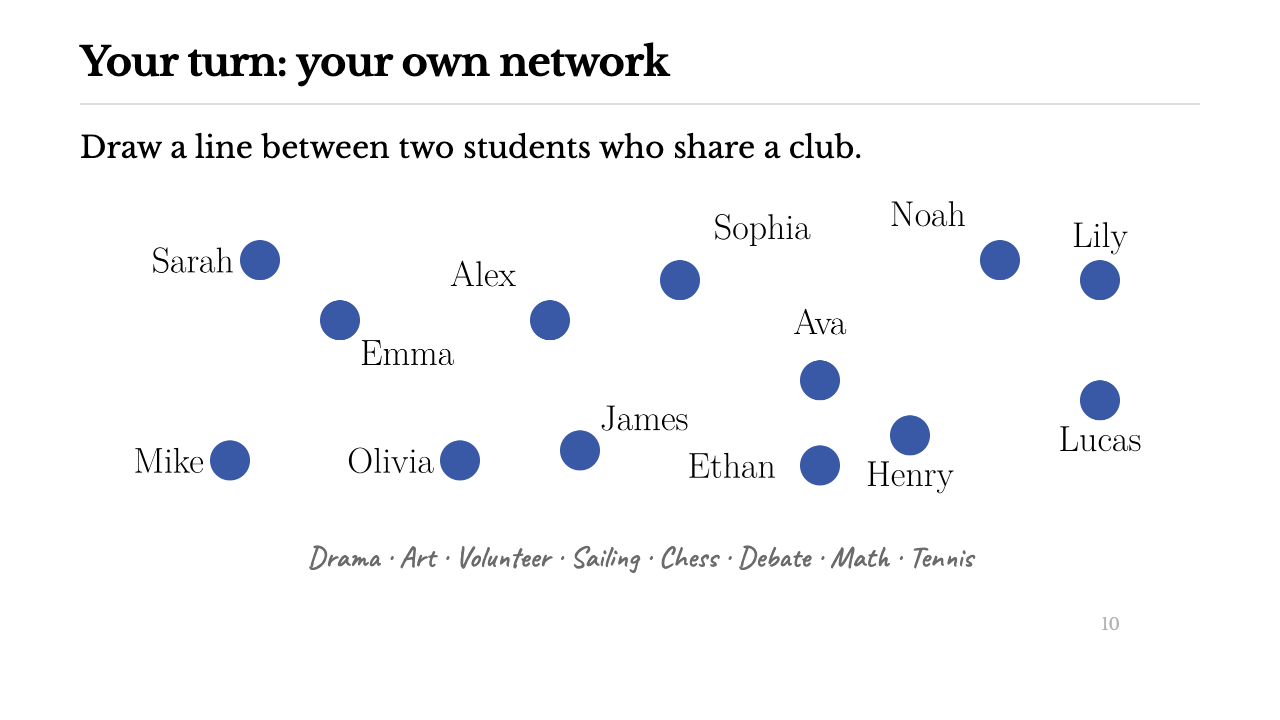
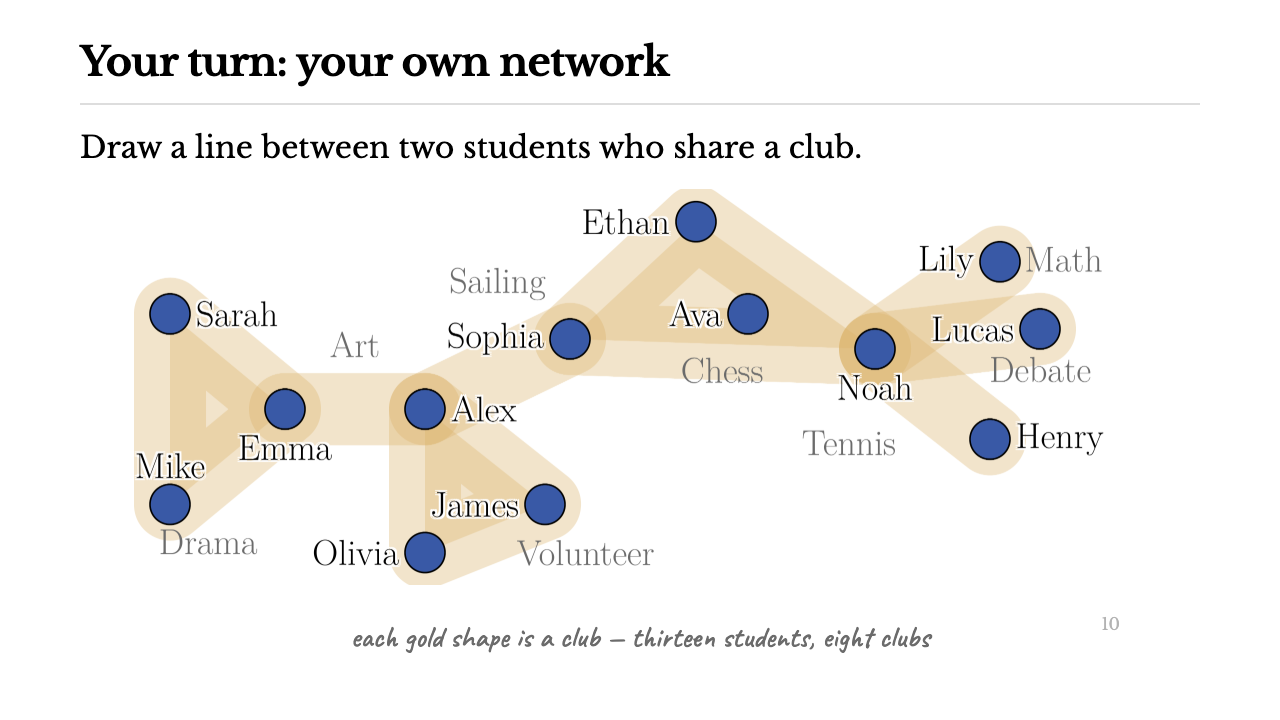
m06: slide 10 asked for the clubs and never showed them
The Your-turn slide says 'draw a line between two students who share a club' and
listed only the thirteen names and the eight club names — the memberships were in
roster bullets that went with them when I moved the slide to full width, so the
exercise could not be done from the slide. The clubs are now drawn on the figure
as gold hulls, and the label placement is solved rather than hand-assigned (the
first hand table put 'Art' on Emma and the assertion caught it).

Not spokes: the first version drew a band between every pair of clubmates, which
is exactly the set of lines the student is being asked to draw. A hull says who
shares a club and stops there.

Slide 9 also gets the map — it asks the room to point at a city and the map was on
the slide before it. And Ethan and Ava sat 38bp apart with 40bp discs, which is
two overlapping circles; the build fails on that now.

check_render: 102 slides, all checks pass, exit 0.

Changed region(s): [[0.0938, 0.2444, 0.9062, 0.825], [0.5, 0.8556, 0.7188, 0.9167], [0.2812, 0.8556, 0.4688, 0.9167]]

diff --git a/docs/slide/new/m06/figures/figs_extra.py b/docs/slide/new/m06/figures/figs_extra.py
@@ -8,6 +8,8 @@ Each is 537 bp wide, because each sits beside a formula panel or a block of text
 that has to stay next to it.
 """
 
+import math
+
 import networkx as nx
 
 import figlib as F
@@ -130,14 +132,24 @@ FIGURES = [
 CLUB_XY = {
     "Sarah": (70.0, 300.0), "Mike": (70.0, 110.0), "Emma": (185.0, 205.0),
     "Alex": (325.0, 205.0), "Olivia": (325.0, 62.0), "James": (445.0, 110.0),
-    "Sophia": (470.0, 275.0), "Ethan": (620.0, 358.0), "Ava": (625.0, 320.0),
+    "Sophia": (470.0, 275.0), "Ethan": (596.0, 392.0), "Ava": (648.0, 300.0),
     "Noah": (775.0, 265.0), "Lily": (900.0, 352.0), "Lucas": (940.0, 285.0),
     "Henry": (890.0, 175.0),
 }
 CLUB_MARK = None
 
 
+def _assert_club_geometry():
+    """Discs must not touch. The first layout put Ethan 38bp from Ava, and a 40bp
+    disc 38bp from another one is two overlapping circles on both club figures."""
+    import itertools
+    close = [(a, b) for a, b in itertools.combinations(CLUB_XY, 2)
+             if math.dist(CLUB_XY[a], CLUB_XY[b]) < F.NODE + 14]
+    assert not close, f"club discs overlap or nearly touch: {close}"
+
+
 def fig_club_three_answers():
+    _assert_club_geometry()
     """One network, three marks, three questions -- the whole of Part 1's payoff."""
     import itertools
     edges = [tuple(e) for e in CLUB.edges()]
@@ -204,23 +216,49 @@ CLUB_LABEL_SPOTS = [(anc, dx, dy)
                     for dx, dy in ((ux * r, uy * r),)]
 
 
+def _hull(pts):
+    """Convex hull, counter-clockwise. Andrew's monotone chain, deduplicated."""
+    pts = sorted(set((round(x, 3), round(y, 3)) for x, y in pts))
+    if len(pts) <= 2:
+        return pts
+
+    def half(seq):
+        out = []
+        for p in seq:
+            while len(out) >= 2 and ((out[-1][0] - out[-2][0]) * (p[1] - out[-2][1])
+                                     - (out[-1][1] - out[-2][1]) * (p[0] - out[-2][0])) <= 0:
+                out.pop()
+            out.append(p)
+        return out[:-1]
+
+    return half(pts) + half(pts[::-1])
+
+
 def fig_club_clubs():
     import itertools
     from verify_numbers import CLUBS
     assert set(CLUB_XY) == set(CLUB)
 
+    _assert_club_geometry()
     b = ""
-    # Each club is a blob: a round-capped stroke between every pair of its members,
-    # plus a disc at each member. Overlaps read as darker gold, which is true --
-    # Noah really is in four clubs at once.
+    # Each club is the rounded HULL of its members, not a band between every pair.
+    # The pairwise version was drawn first and gave the exercise away: a spoke
+    # between every two clubmates is the set of lines the student is being asked
+    # to draw. A hull says "these people share a club" and nothing more.
     for members in CLUBS.values():
-        for u, v in itertools.combinations(members, 2):
-            b += (f"\\draw[line width={2 * CLUB_BLOB_R}bp,draw={ACCENT3},opacity=0.30,"
-                  f"line cap=round] ({CLUB_XY[u][0]},{CLUB_XY[u][1]}) -- "
-                  f"({CLUB_XY[v][0]},{CLUB_XY[v][1]});\n")
-        for m in members:
-            b += (f"\\fill[{ACCENT3},opacity=0.30] ({CLUB_XY[m][0]},{CLUB_XY[m][1]}) "
+        pts = [CLUB_XY[m] for m in members]
+        hull = _hull(pts)
+        if len(hull) == 1:
+            b += (f"\\fill[{ACCENT3},opacity=0.34] ({hull[0][0]},{hull[0][1]}) "
                   f"circle ({CLUB_BLOB_R}bp);\n")
+        elif len(hull) == 2:
+            b += (f"\\draw[line width={2 * CLUB_BLOB_R}bp,draw={ACCENT3},opacity=0.34,"
+                  f"line cap=round] ({hull[0][0]},{hull[0][1]}) -- "
+                  f"({hull[1][0]},{hull[1][1]});\n")
+        else:
+            path = " -- ".join(f"({x:.1f},{y:.1f})" for x, y in hull)
+            b += (f"\\filldraw[{ACCENT3},opacity=0.34,line width={2 * CLUB_BLOB_R}bp,"
+                  f"draw={ACCENT3},line join=round,line cap=round] {path} -- cycle;\n")
 
     for n, (x, y) in CLUB_XY.items():
         b += (f"\\draw[line width=1.6bp,draw=black,fill=accent] ({x},{y}) "

diff --git a/docs/slide/new/m06/review/REVIEW_R1.md b/docs/slide/new/m06/review/REVIEW_R1.md
@@ -116,3 +116,16 @@ student activity; see the open item below.
   crosses or clears depending on a pixel of font variance between runs. Both now
   carry a line less.
 - The club summary marked its third student with a blue ring on a blue disc.
+- **Slide 9 had no map on it.** It asks the room to point at a city and the map
+  was on the slide before. It carries the map now.
+- **Slide 10 showed no clubs.** It asks students to join two people who share a
+  club and named only the thirteen students and the eight club names — the
+  memberships had gone with the roster bullets when the slide went full width, so
+  the exercise could not be done from the slide. The clubs are drawn on the figure
+  now, as gold hulls. The first version drew a band between every pair of
+  clubmates, which is the set of lines the student is being asked to draw; a hull
+  says who shares a club and nothing more.
+- Ethan and Ava sat 38 bp apart with 40 bp discs — two overlapping circles on both
+  club figures. `_assert_club_geometry()` now fails the build on it.
+- Slides 10 and 12 share one layout, so what the room draws is the picture the
+  answer slide reveals.

diff --git a/docs/slide/new/m06/m06-centrality.md b/docs/slide/new/m06/m06-centrality.md
@@ -175,8 +175,8 @@ Draw a line between two students who share a club.
 
 <div class="fig tall">
 
-![w:1080](figures/club-blank.png)
-<figcaption>Drama · Art · Volunteer · Sailing · Chess · Debate · Math · Tennis</figcaption>
+![w:1080](figures/club-clubs.png)
+<figcaption>each gold shape is a club — thirteen students, eight clubs</figcaption>
 
 </div>
 
